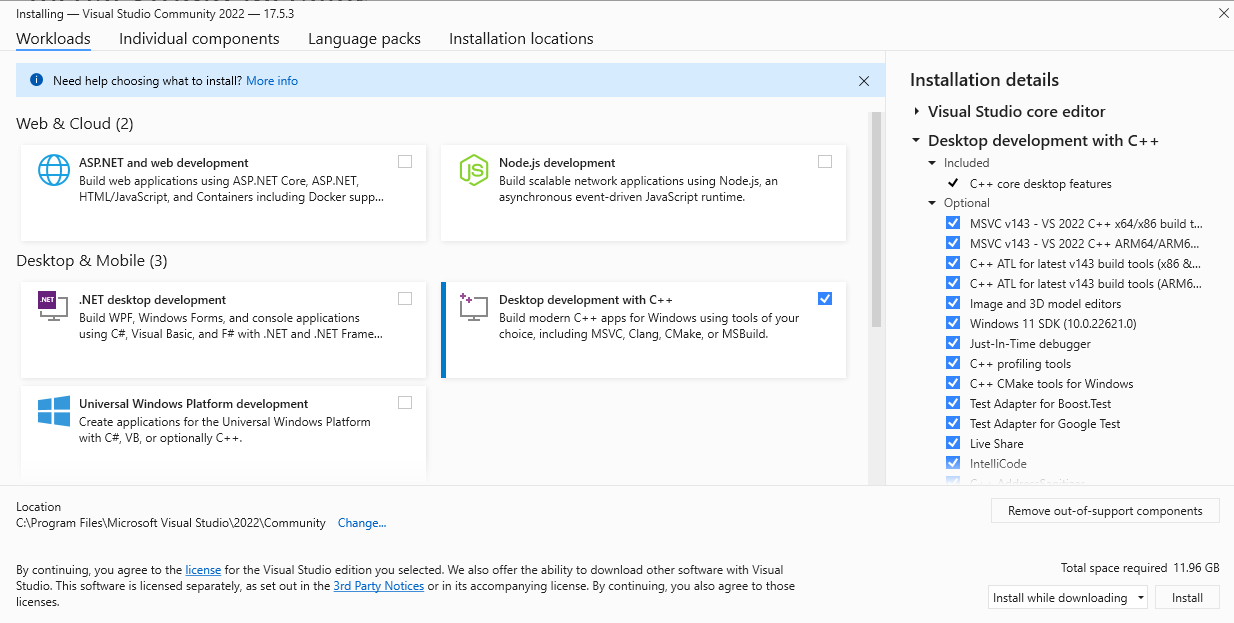
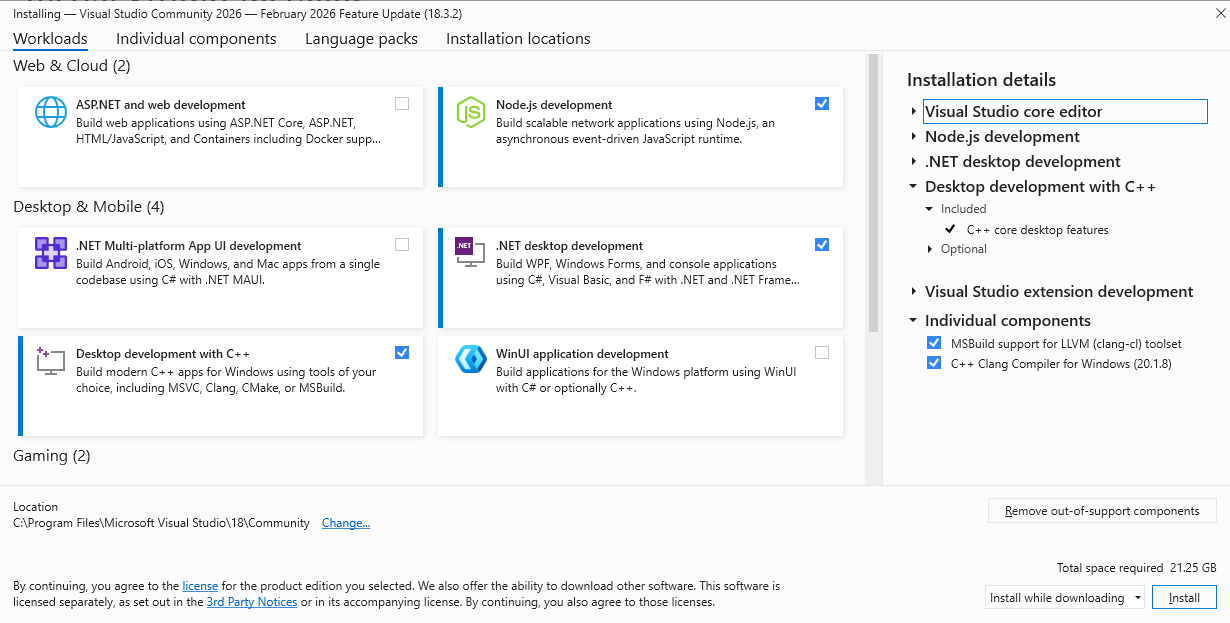
Update Visual Studio on Windows install guide

diff --git a/content/install-guides/vs-woa.md b/content/install-guides/vs-woa.md
@@ -47,7 +47,7 @@ Once downloaded, run the `VisualStudioSetup.exe` file on a Windows on Arm machin
 ## How do I install C and C++ support in Visual Studio?
 During the installation process, you will be asked to choose the workloads you want and customize your installation. At a minimum, select `Desktop development with C++`.
 
-![img1 #center](/install-guides/_images/vs-woa.png)
+![img1 #center](/install-guides/_images/vs-woa.webp)
 
 ## How do I install LLVM support in Visual Studio? {#install-llvm-support-in-visual-studio}
 
@@ -57,12 +57,12 @@ In the installer, select the `Individual components` tab. Enter `clang` in the s
 
 Two results are displayed: The LLVM compiler and MSBuild support for LLVM. Select both these options:
 
-![img2 #center](/install-guides/_images/llvm_vs.png)
+![img2 #center](/install-guides/_images/llvm_vs.webp)
 
 {{% notice  Note%}}
 Different versions of Visual Studio include different LLVM toolchain versions.
 
-For example, Visual Studio 2022 Version `17.11.5` installs `LLVM 17.0.3`.
+For example, Visual Studio 2026 Version `18.3.2` installs `LLVM 19.1.2`.
 {{% /notice %}}
 
 LLVM supports `clang-cl`, a compatibility layer for Microsoft Visual C++ (MSVC). This means that most developers can use `clang-cl` to compile their C/C++ applications on Visual Studio/MSBuild on the Windows on Arm device, without needing to change the command line. This allows you to easily modify legacy projects that use MSVC to use native compilation.
